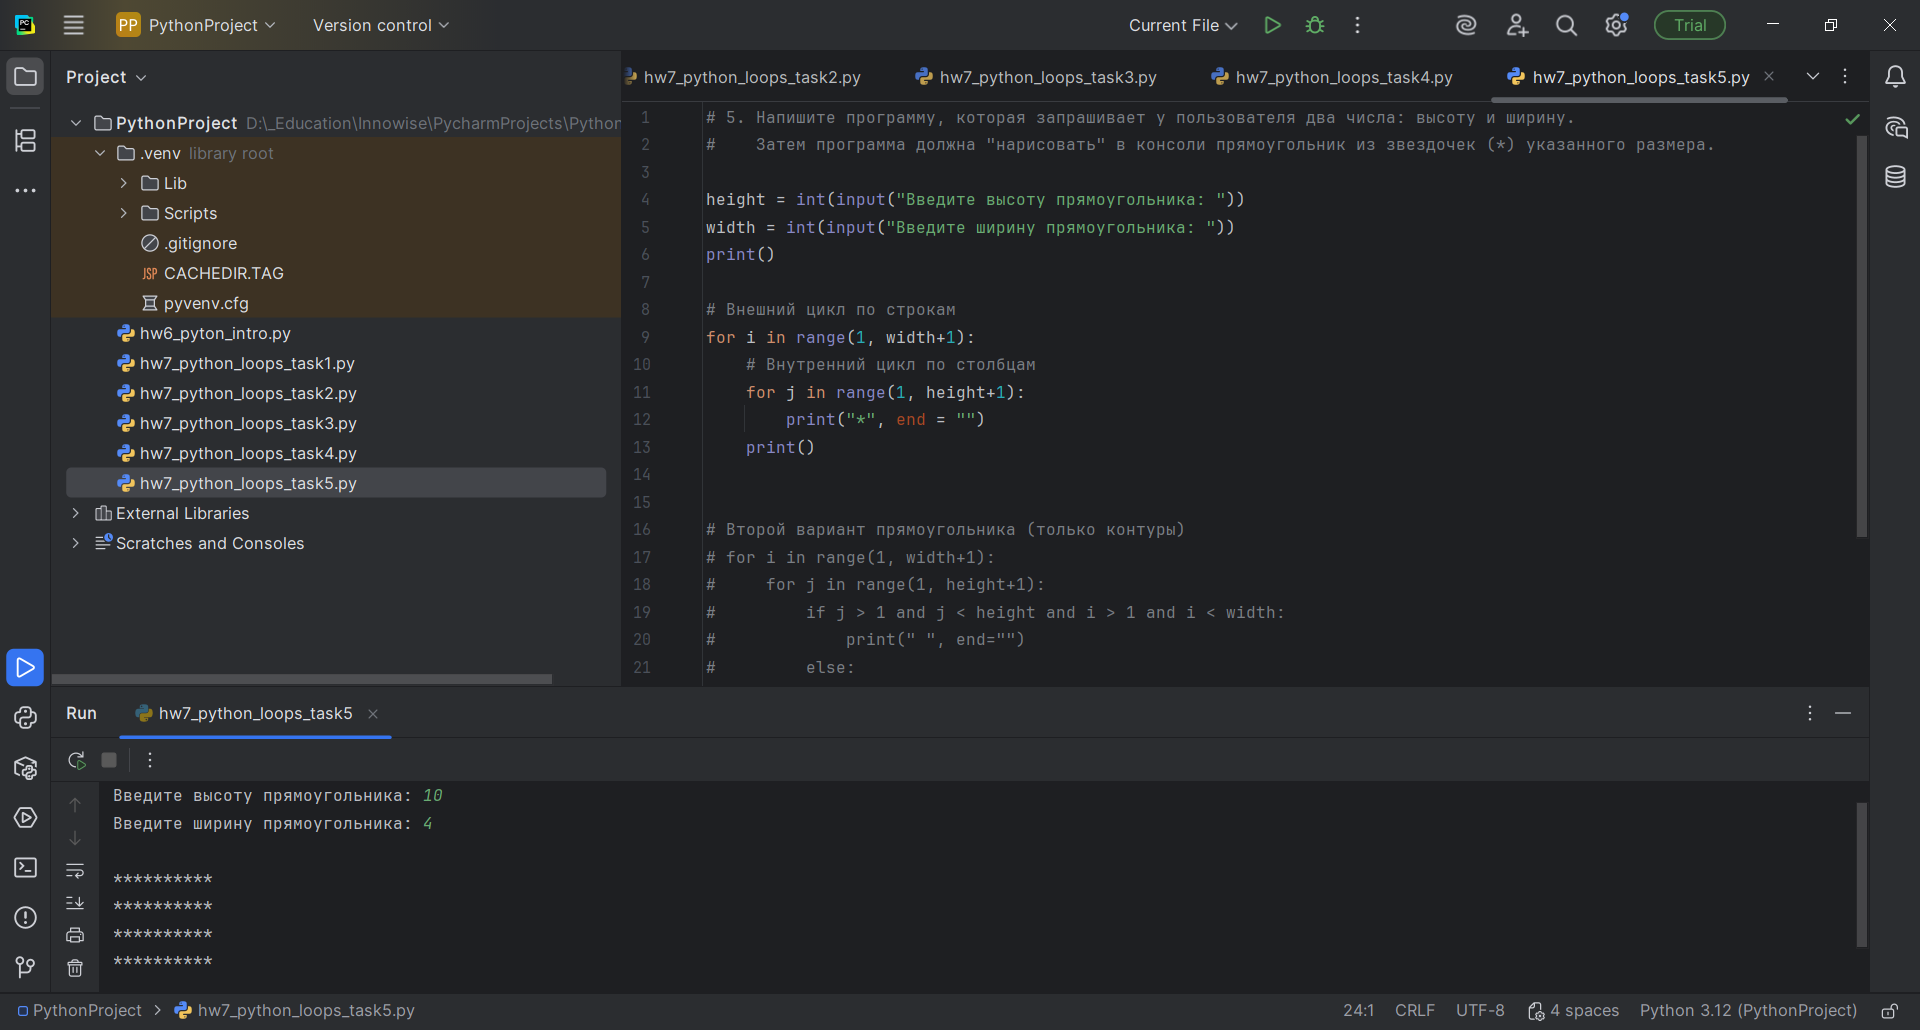
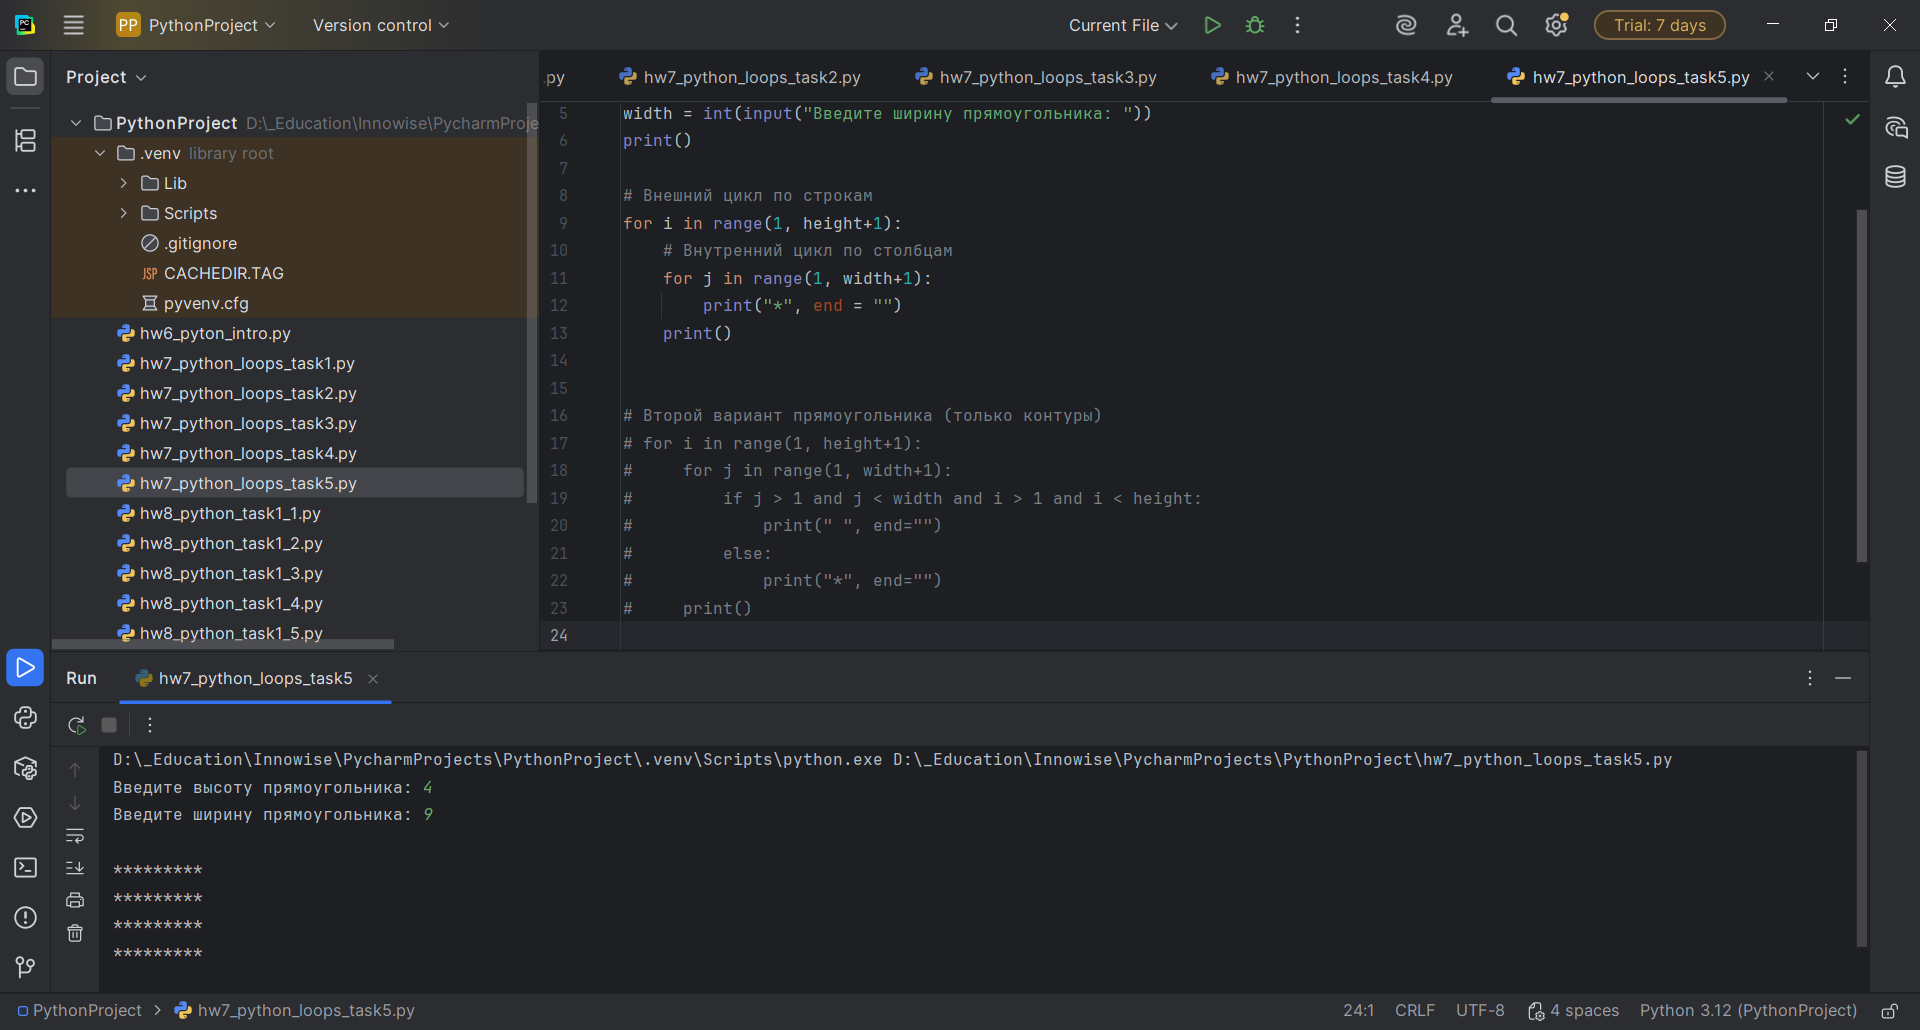
Corrections HomeWork 7

diff --git a/python_loops_7/hw7_python_loops_task5.py b/python_loops_7/hw7_python_loops_task5.py
@@ -6,17 +6,17 @@ width = int(input("Введите ширину прямоугольника: "))
 print()
 
 # Внешний цикл по строкам
-for i in range(1, width+1):
+for i in range(1, height+1):
     # Внутренний цикл по столбцам
-    for j in range(1, height+1):
+    for j in range(1, width+1):
         print("*", end = "")
     print()
 
 
 # Второй вариант прямоугольника (только контуры)
-# for i in range(1, width+1):
-#     for j in range(1, height+1):
-#         if j > 1 and j < height and i > 1 and i < width:
+# for i in range(1, height+1):
+#     for j in range(1, width+1):
+#         if j > 1 and j < width and i > 1 and i < height:
 #             print(" ", end="")
 #         else:
 #             print("*", end="")

diff --git a/python_loops_7/hw7_python_loops_task3.py b/python_loops_7/hw7_python_loops_task3.py
@@ -10,7 +10,7 @@ input_number = 0
 while input_number != secret_number:
     input_number = int(input("Введите число от 1 до 10: "))
 
-    if input_number > 1 and input_number < 10:
+    if input_number >= 1 and input_number <= 10:
         if input_number != secret_number:
             print("Неверно, попробуйте еще раз.")
     else:
